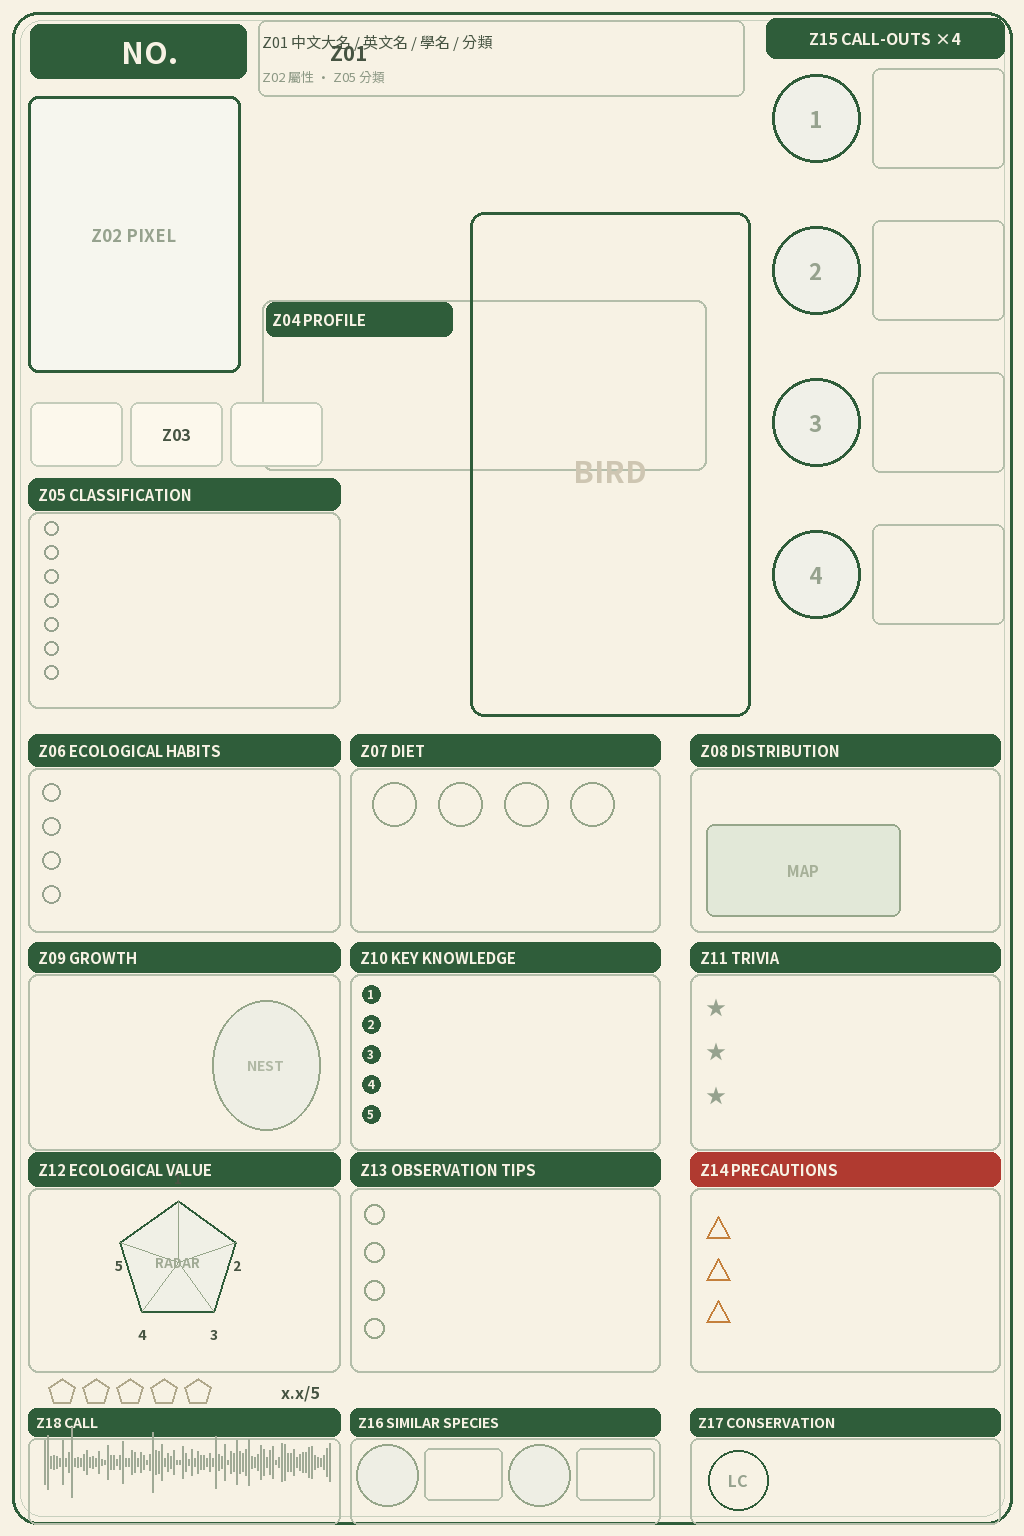
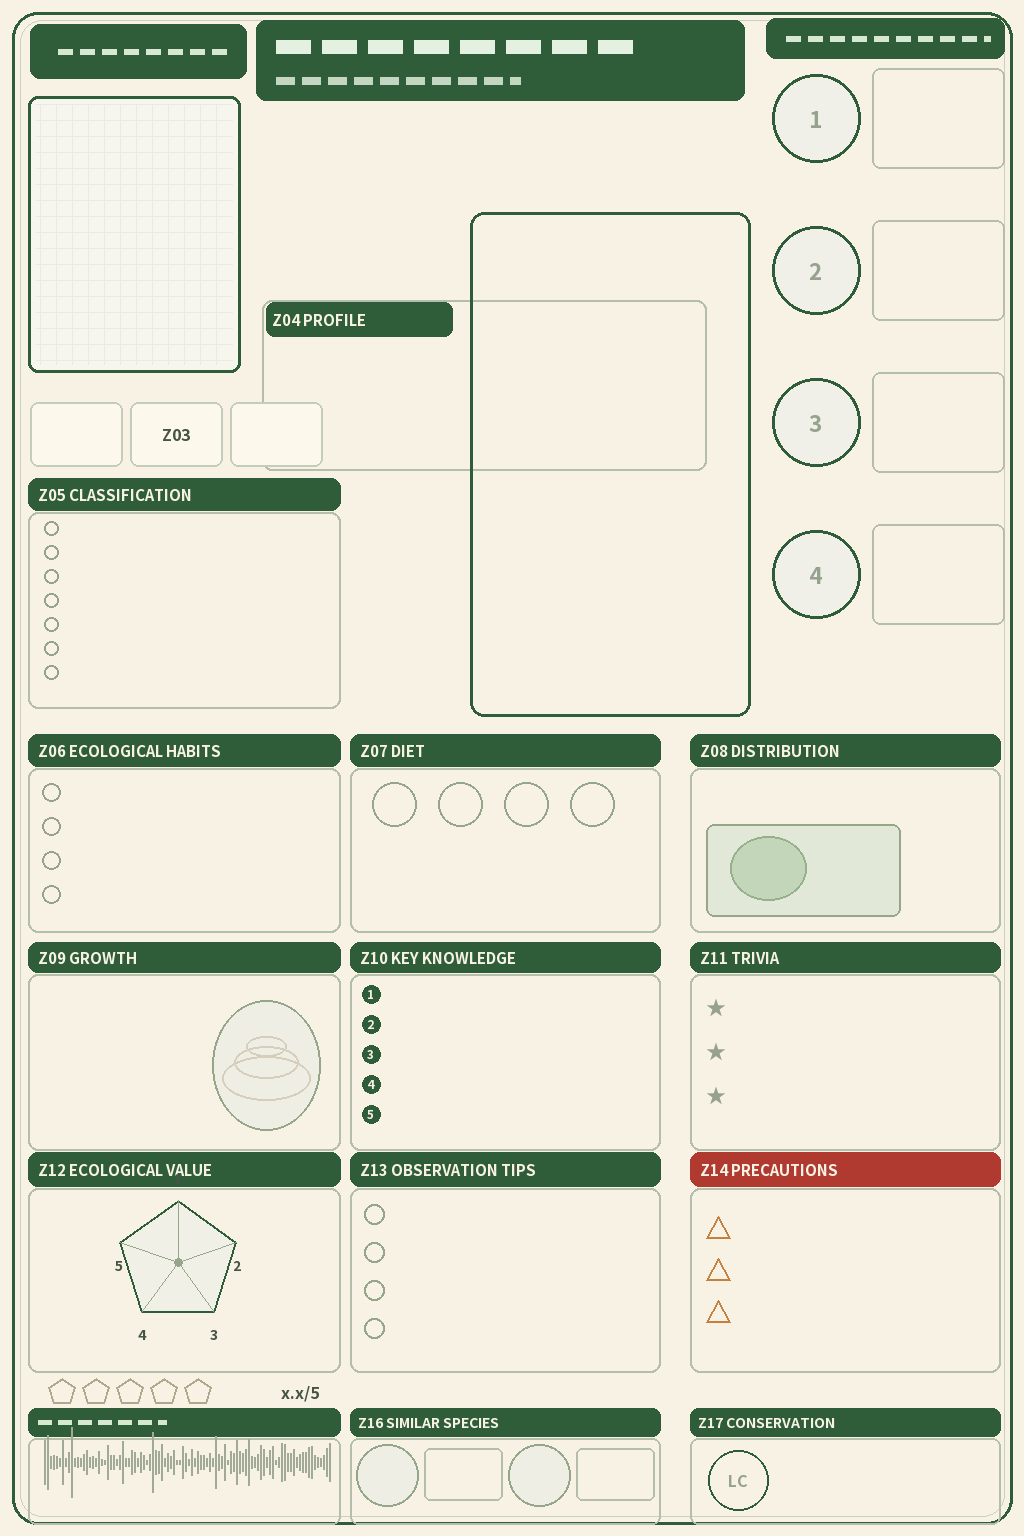
fix(card): 去字位圖去掉所有字母，重出 0022 v3
修好三處：
1. 位圖上的 BIRD / MAP / NEST / RADAR / Z18 等佔位字全部移除，
   改成純色塊、虛線與圓點 → 卡面不再出現浮水印或 Z 編號
2. 頂部名稱帶改為深綠滿版（與原卡一致），唔再淺底
3. 頁腳左格補回深綠標題條

結果：18 格全對、四個放大鏡各自不同、數值與星級準確、無殘留。
- public/demo/card-0022-v3.png
- public/demo/zonemap-naturalist.png（新版位圖）

diff --git a/scripts/cards/make-zone-map.py b/scripts/cards/make-zone-map.py
@@ -66,14 +66,17 @@ def main():
     rrect(d, [20, 20, W - 20, H - 20], 22, outline=(200, 208, 190), width=1)
 
     # ── 頂部綠色帶 ───────────────────────────────────────
+    # NO 帶：深綠滿版，只留白色虛線佔位（唔寫字母）
     rrect(d, [30, 24, 246, 78], 10, fill=GREEN)
-    d.text((150, 51), 'NO.', font=font(30, True), fill=CREAM, anchor='mm')
-    d.text((330, 52), 'Z01', font=font(20, True), fill=INK, anchor='lm')
+    for x in range(58, 226, 22):
+        d.line([(x, 51), (min(x + 14, 226), 51)], fill=(214, 232, 210), width=6)
 
-    # 名稱區（虛線框＝要填大字名）
-    d.rounded_rectangle([258, 20, 744, 96], radius=8, outline=(180, 190, 170), width=2)
-    d.text((262, 30), 'Z01 中文大名 / 英文名 / 學名 / 分類', font=font(15), fill=INK)
-    d.text((262, 66), 'Z02 屬性 · Z05 分類', font=font(13), fill=(140, 152, 132))
+    # 名稱區：深綠實心帶（同原卡一致），內裡用白色虛線示範字位
+    rrect(d, [256, 20, 744, 100], 10, fill=GREEN)
+    for x in range(276, 640, 46):
+        d.line([(x, 46), (min(x + 34, 640), 46)], fill=(228, 240, 224), width=14)
+    for x in range(276, 520, 26):
+        d.line([(x, 80), (min(x + 18, 520), 80)], fill=(196, 214, 194), width=8)
 
     # 圖鑑介紹
     d.rounded_rectangle([262, 300, 706, 470], radius=10, outline=(180, 190, 170), width=2)
@@ -91,11 +94,16 @@ def main():
 
     # 左上像素圖框
     rrect(d, [28, 96, 240, 372], 10, fill=(246, 246, 238), outline=GREEN, width=3)
-    d.text((134, 234), 'Z02 PIXEL', font=font(17, True), fill=(150, 162, 142), anchor='mm')
+    # 像素格示意
+    for gx in range(40, 232, 16):
+        d.line([(gx, 104), (gx, 364)], fill=(232, 236, 224), width=1)
+    for gy in range(104, 372, 16):
+        d.line([(36, gy), (232, gy)], fill=(232, 236, 224), width=1)
 
     # ── 右側四個放大鏡 ───────────────────────────────────
     rrect(d, [766, 18, 1004, 58], 10, fill=GREEN)
-    d.text((885, 38), 'Z15 CALL-OUTS ×4', font=font(16, True), fill=CREAM, anchor='mm')
+    for x in range(786, 990, 22):
+        d.line([(x, 38), (min(x + 14, 990), 38)], fill=(214, 232, 210), width=6)
     for i in range(4):
         cy = 118 + i * 152
         d.ellipse([772, cy - 44, 860, cy + 44], fill=(240, 240, 232), outline=GREEN, width=3)
@@ -109,7 +117,6 @@ def main():
 
     # 中間大圖框（鳥）—— 只佔中欄上半，唔壓住下面三個面板
     d.rounded_rectangle([470, 212, 750, 716], radius=14, outline=GREEN, width=3)
-    d.text((610, 470), 'BIRD', font=font(30, True), fill=(206, 198, 178), anchor='mm')
 
     # ── 左欄：分類資訊 ───────────────────────────────────
     rrect(d, [28, 478, 340, 510], 10, fill=GREEN)
@@ -136,7 +143,8 @@ def main():
     d.text((38, 957), 'Z09 GROWTH', font=font(15, True), fill=CREAM, anchor='lm')
     d.rounded_rectangle([28, 974, 340, 1150], radius=10, outline=(180, 190, 170), width=2)
     d.ellipse([212, 1000, 320, 1130], fill=(238, 238, 228), outline=SAGE, width=2)
-    d.text((266, 1065), 'NEST', font=font(14, True), fill=(176, 184, 164), anchor='mm')
+    for rr, cyy in ((44, 1078), (32, 1062), (20, 1046)):
+        d.ellipse([266 - rr, cyy - rr // 2, 266 + rr, cyy + rr // 2], outline=(214, 206, 186), width=2)
     if show_fill:
         for i, y in enumerate(range(996, 1136, 22)):
             d.line([(46, y), (46 + 150 - (i % 3) * 30, y)], fill=(214, 208, 190), width=7)
@@ -151,7 +159,7 @@ def main():
     d.polygon(pts, fill=(240, 240, 230), outline=GREEN, width=2)
     for p in pts:
         d.line([(cx, cy), p], fill=SAGE, width=1)
-    d.text((cx, cy), 'RADAR', font=font(13, True), fill=(160, 170, 148), anchor='mm')
+    d.ellipse([cx - 4, cy - 4, cx + 4, cy + 4], fill=SAGE)
     for i, p in enumerate(pts):
         d.text((p[0], p[1] + (-22 if i == 0 else 22)), str(i + 1),
                font=font(14, True), fill=INK, anchor='mm')
@@ -199,7 +207,7 @@ def main():
     d.text((700, 750), 'Z08 DISTRIBUTION', font=font(15, True), fill=CREAM, anchor='lm')
     d.rounded_rectangle([690, 768, 1000, 932], radius=10, outline=(180, 190, 170), width=2)
     d.rounded_rectangle([706, 824, 900, 916], radius=8, fill=(226, 232, 216), outline=SAGE, width=2)
-    d.text((803, 870), 'MAP', font=font(15, True), fill=(166, 176, 152), anchor='mm')
+    d.ellipse([730, 836, 806, 900], fill=(196, 214, 186), outline=(150, 176, 140), width=2)
     if show_fill:
         d.line([(706, 796), (940, 796)], fill=(214, 208, 190), width=7)
 
@@ -223,7 +231,8 @@ def main():
 
     # ── 頁腳三格 ─────────────────────────────────────────
     rrect(d, [28, 1408, 340, 1436], 8, fill=GREEN)
-    d.text((36, 1422), 'Z18 CALL', font=font(14, True), fill=CREAM, anchor='lm')
+    for x in range(38, 166, 20):
+        d.line([(x, 1422), (min(x + 13, 166), 1422)], fill=(214, 232, 210), width=5)
     d.rounded_rectangle([28, 1438, 340, 1524], radius=8, outline=(180, 190, 170), width=2)
     rng = np.random.default_rng(3)
     for x in range(44, 330, 3):
